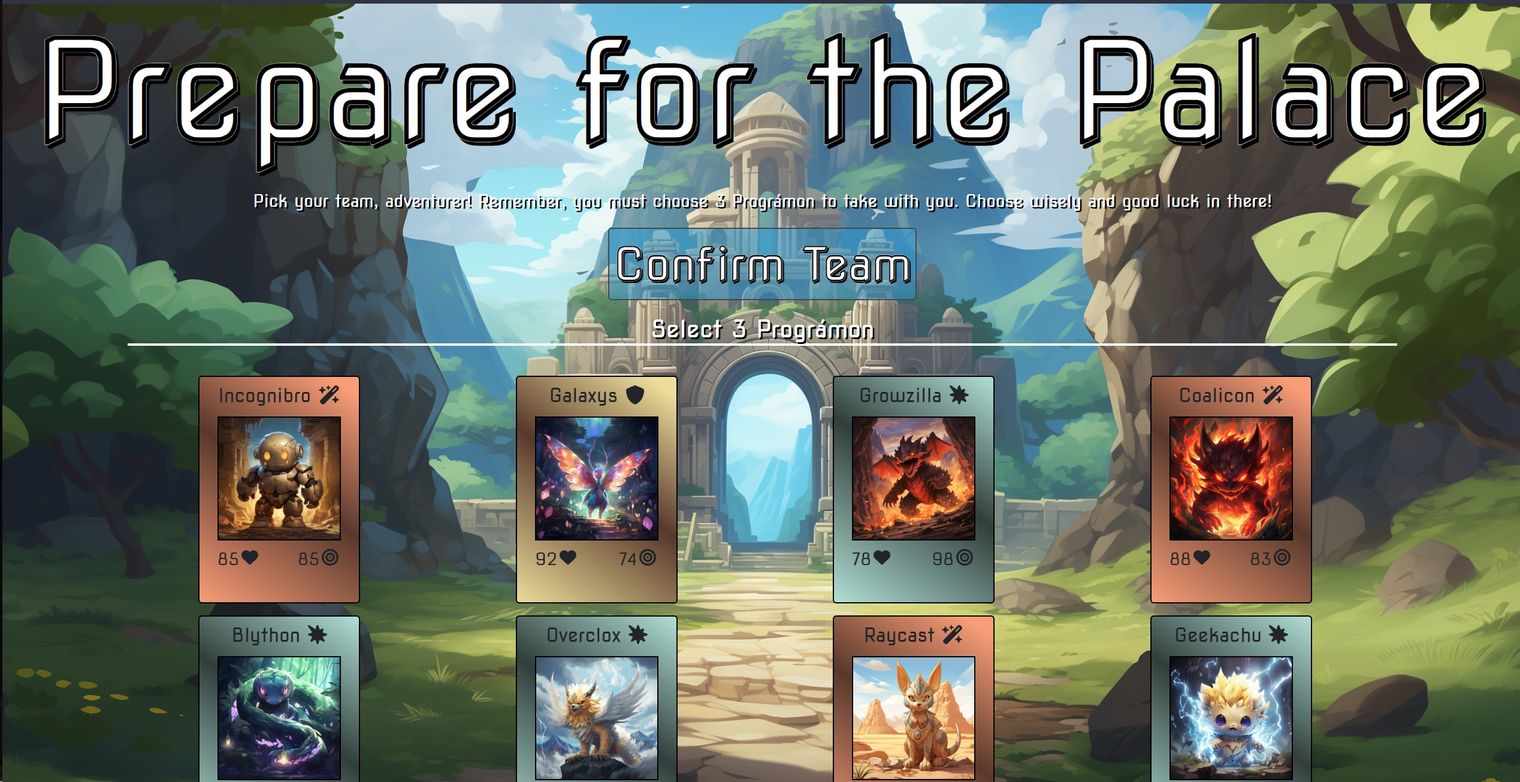
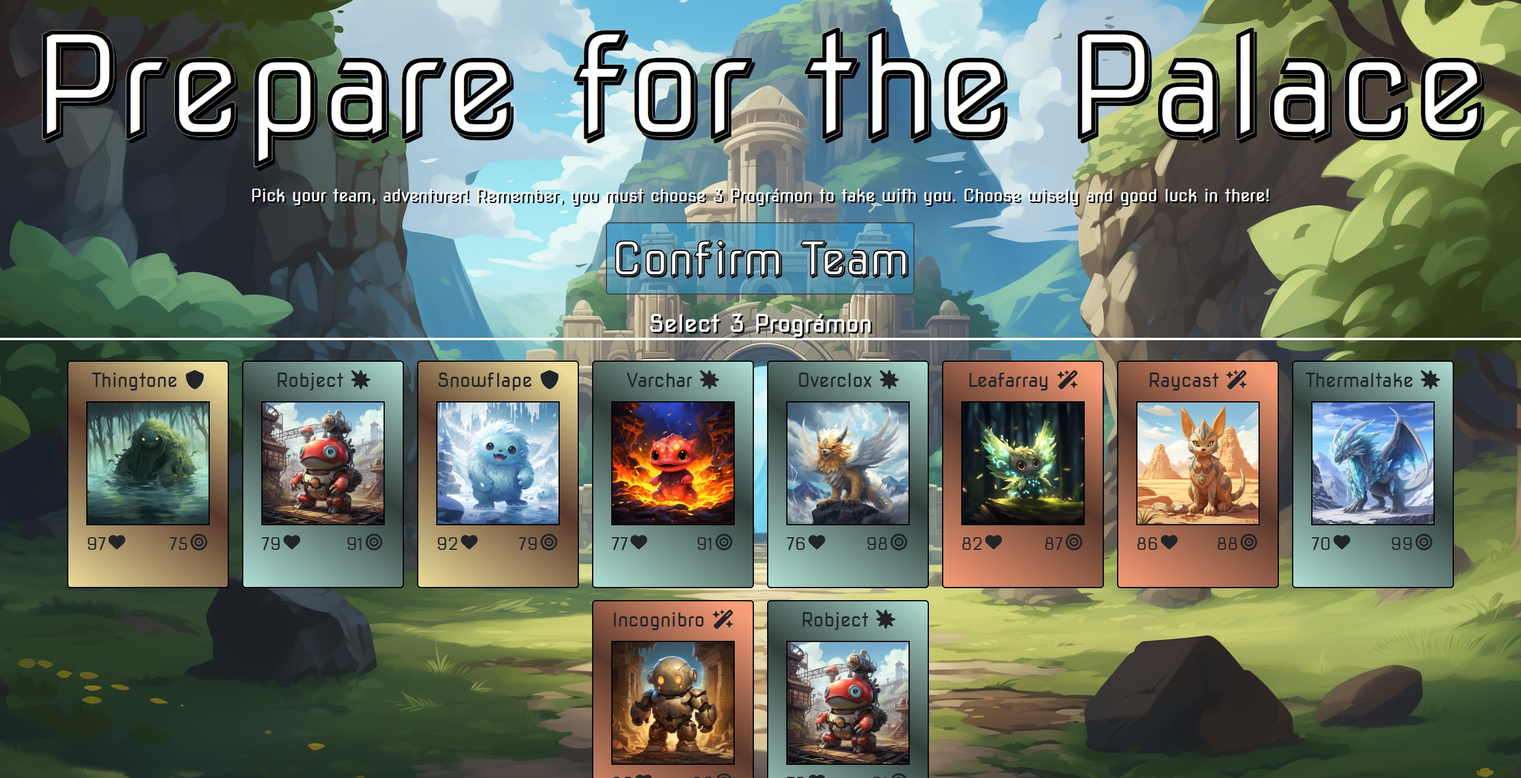
completed PrograDex

diff --git a/server/seed.js b/server/seed.js
@@ -8,19 +8,19 @@ const userData = [
     username: "AshKetchum",
     email: "veryBest151@yahoo.com",
     password: "missingno",
-    coins: 100
+    coins: 3000
   },
   {
     username: "BrockRock",
     email: "geoDude@gmail.com",
     password: "missingno",
-    coins: 100
+    coins: 3000
   },
   {
     username: "SeaMisty",
     email: "goldeengoldeen@hotmail.com",
     password: "missingno",
-    coins: 100
+    coins: 3000
   },
 ];
 
@@ -249,6 +249,69 @@ const cardData = [
     health: "89",
     coinCost: "12",
     type: "trickster"
+  },
+  {
+    dexNo: "026",
+    name: "Cyberian",
+    image: "https://cdn.discordapp.com/attachments/1062551659168944249/1184236794582147223/elrondhubbard_ferocious_siberian_tiger_lounging_in_kingly_suspi_da9bab79-e231-40a1-a8a5-9b19561d8ac9.png?ex=658b3d75&is=6578c875&hm=2fc3dec62555dca1b3caad6aadd9ae3c5daa0510a8e657aec4cef6b70dc60ebe&",
+    attack: "76",
+    health: "95",
+    coinCost: "20",
+    type: "defender"
+  },
+  {
+    dexNo: "027",
+    name: "Rhyspace",
+    image: "https://cdn.discordapp.com/attachments/1062551659168944249/1184234993082450021/elrondhubbard_glowing_cosmic_rhinocerous_charging_through_the_s_41a3ab48-d34f-4f1b-a44c-5a201839b9bc.png?ex=658b3bc8&is=6578c6c8&hm=b8a38d838c29db41f594b52432ff501eae8ef9f4bcc2d422cd9e583b27c05178&",
+    attack: "90",
+    health: "78",
+    coinCost: "13",
+    type: "attacker"
+  },
+  {
+    dexNo: "028",
+    name: "Tweeter",
+    image: "https://cdn.discordapp.com/attachments/1062551659168944249/1184233907810484275/elrondhubbard_glistening_icy_crane_bird_coveting_the_moon_pokem_1ffc6df9-5bfe-4324-aa1e-10dadf3287f4.png?ex=658b3ac5&is=6578c5c5&hm=ddcec997b855224e5fcf2b0f61a43096977c468fd1ca9ee2263081e45dcd478f&",
+    attack: "82",
+    health: "88",
+    coinCost: "16",
+    type: "trickster"
+  },
+  {
+    dexNo: "029",
+    name: "Terrabite",
+    image: "https://cdn.discordapp.com/attachments/1062551659168944249/1184245418989715586/elrondhubbard_a_terrible_lizard_stands_atop_a_pool_of_toxic_slu_09f95111-747f-4104-8c16-bf39b82f88f9.png?ex=658b457e&is=6578d07e&hm=311a67e75e26686390a5be886c742caef7a36c831d9e30816e5da99c41c18ea2&",
+    attack: "124",
+    health: "86",
+    coinCost: "100",
+    type: "attacker"
+  },
+  {
+    dexNo: "030",
+    name: "Assemblus",
+    image: "https://cdn.discordapp.com/attachments/1062551659168944249/1184253464134553712/elrondhubbard_menacing_deep_sea_kraken_collecting_ships_pokemon_2e4ca9e4-07ad-497c-8fce-68e058a6f12d.png?ex=658b4cfc&is=6578d7fc&hm=c4741a15ede954b51046d29c863d062d07e8c7823129ac118c6ab316ad68c3a1&",
+    attack: "97",
+    health: "98",
+    coinCost: "100",
+    type: "trickster"
+  },
+  {
+    dexNo: "031",
+    name: "Serviroot",
+    image: "https://cdn.discordapp.com/attachments/1062551659168944249/1184250363319173240/elrondhubbard_a_massive_tree_grasping_at_the_earth_pokemon_cute_c902979a-b664-4f9c-80d3-a7c3ad5383d6.png?ex=658b4a18&is=6578d518&hm=70b3ac2f64fa1c1ee8d2dac8e6e9ffbae5aa78baa602a34037a11cb9d35cf842&",
+    attack: "89",
+    health: "134",
+    coinCost: "100",
+    type: "defender"
+  },
+  {
+    dexNo: "032",
+    name: "Gitfetch",
+    image: "https://cdn.discordapp.com/attachments/1062551659168944249/1184252270016221294/elrondhubbard_adorable_terrier_holding_bone_in_mouth_pokemon_cu_b946a97c-7723-44fc-92a7-095ee0c91589.png?ex=658b4bdf&is=6578d6df&hm=2fbd7ba2f68af0b354c40910da2e307998c9f02687978bd0cc655004940dac5f&",
+    attack: "5",
+    health: "5",
+    coinCost: "999",
+    type: "friend"
   }
 ];
 

diff --git a/client/src/components/Card/index.jsx b/client/src/components/Card/index.jsx
@@ -8,7 +8,8 @@ import {
   faBurst,
   faShield,
   faHeart,
-  faBullseye
+  faBullseye,
+  faBone
 } from "@fortawesome/free-solid-svg-icons";
 
 function Card({ creature }) {
@@ -26,6 +27,9 @@ function Card({ creature }) {
             )}
             {creature.type === "trickster" && (
               <FontAwesomeIcon icon={faWandMagicSparkles} className="" />
+            )}
+            {creature.type === "friend" && (
+              <FontAwesomeIcon icon={faBone} />
             )}
           </h2>
         </div>

diff --git a/client/vite.config.js b/client/vite.config.js
@@ -16,3 +16,5 @@ export default defineConfig({
     },
   },
 });
+
+// https://programon-palace.onrender.com/
